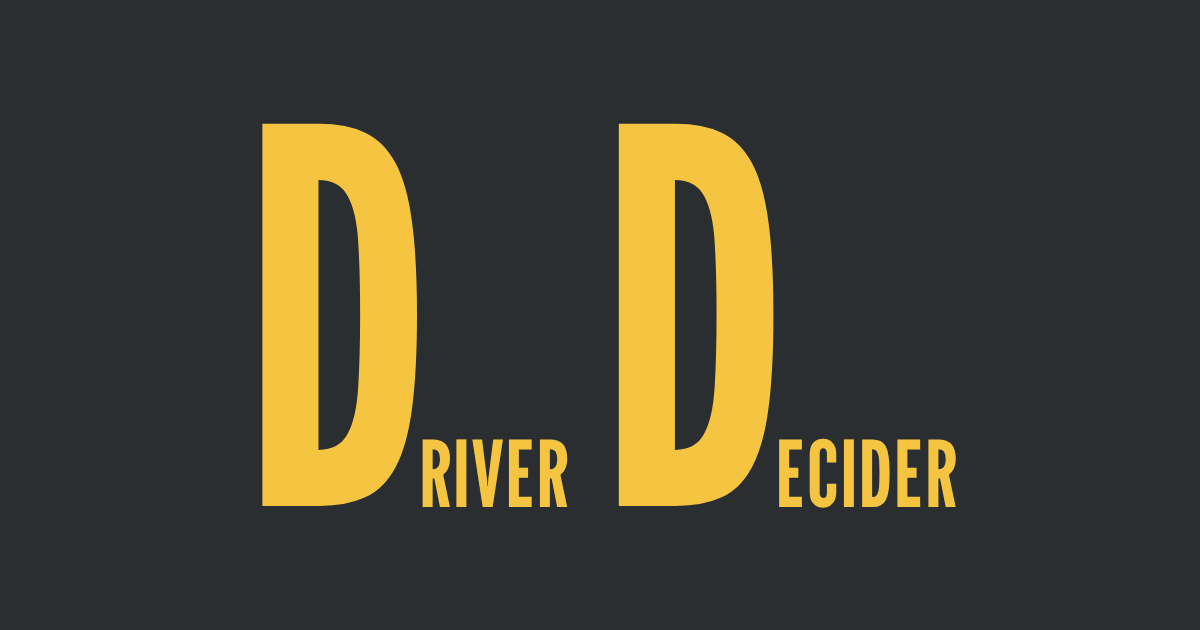
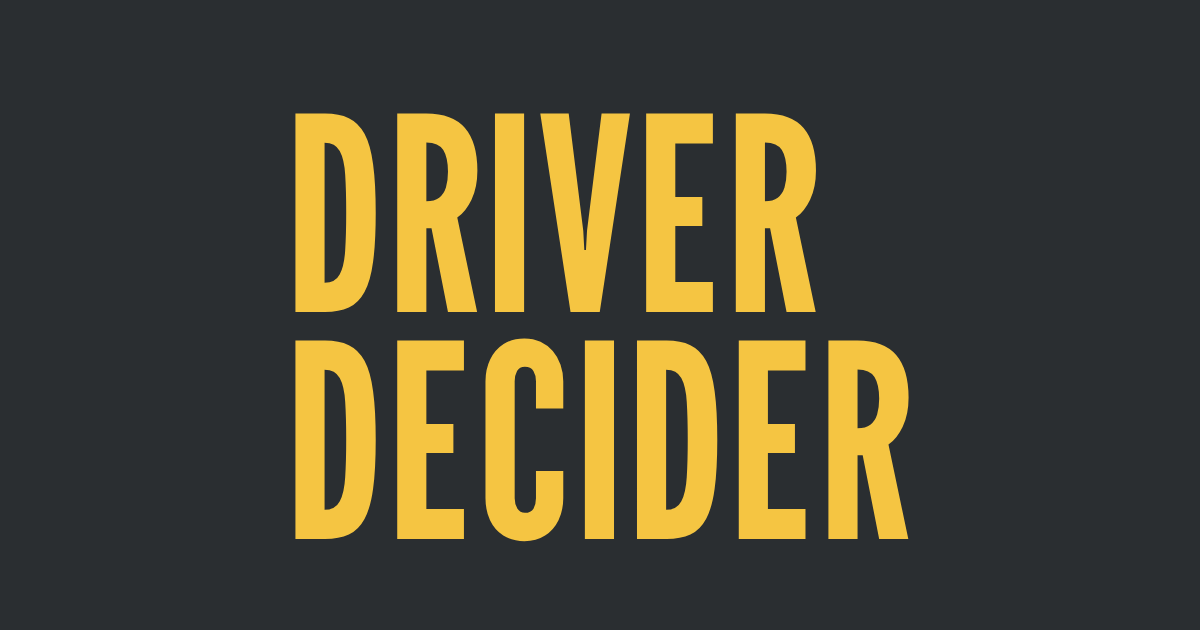
Link preview: DRIVER over DECIDER in the page wordmark
Claude-Session: https://claude.ai/code/session_01X2ygqAFiK6FBAHYuGg4oQM

Changed region(s): [[0.2158, 0.181, 0.8017, 0.8746]]

diff --git a/site/index.html b/site/index.html
@@ -14,7 +14,7 @@
 <meta property="og:image" content="https://driverdecider.zombe.es/og.png">
 <meta property="og:image:width" content="1200">
 <meta property="og:image:height" content="630">
-<meta property="og:image:alt" content="Driver Decider: DD in yellow on asphalt gray, with river and ecider in small letters">
+<meta property="og:image:alt" content="Driver Decider wordmark in yellow on asphalt gray">
 <meta name="twitter:card" content="summary_large_image">
 <meta name="twitter:title" content="Driver Decider">
 <meta name="twitter:image" content="https://driverdecider.zombe.es/og.png">

diff --git a/web/page.html b/web/page.html
@@ -10,7 +10,7 @@
 <meta property="og:image" content="https://driverdecider.zombe.es/og.png">
 <meta property="og:image:width" content="1200">
 <meta property="og:image:height" content="630">
-<meta property="og:image:alt" content="Driver Decider: DD in yellow on asphalt gray, with river and ecider in small letters">
+<meta property="og:image:alt" content="Driver Decider wordmark in yellow on asphalt gray">
 <meta name="twitter:card" content="summary_large_image">
 <meta name="twitter:title" content="Driver Decider">
 <meta name="twitter:image" content="https://driverdecider.zombe.es/og.png">
